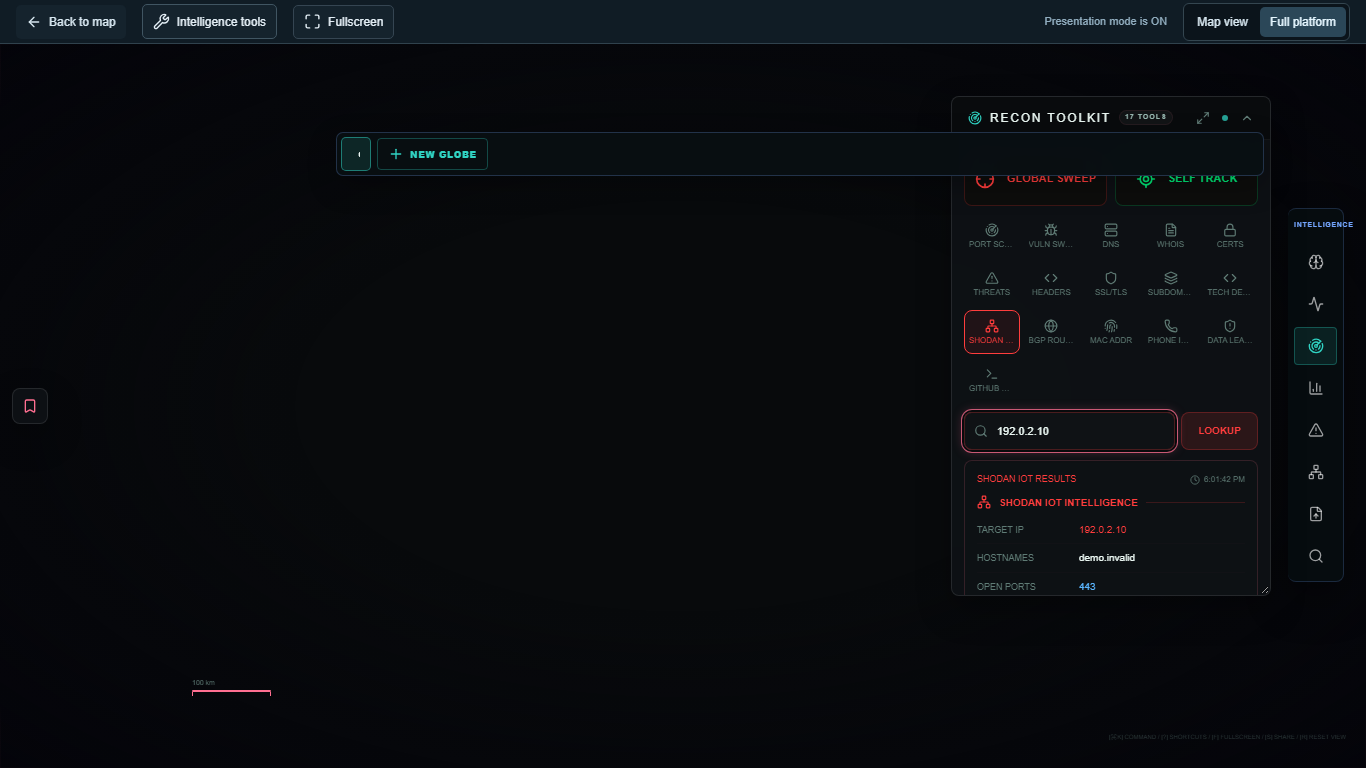
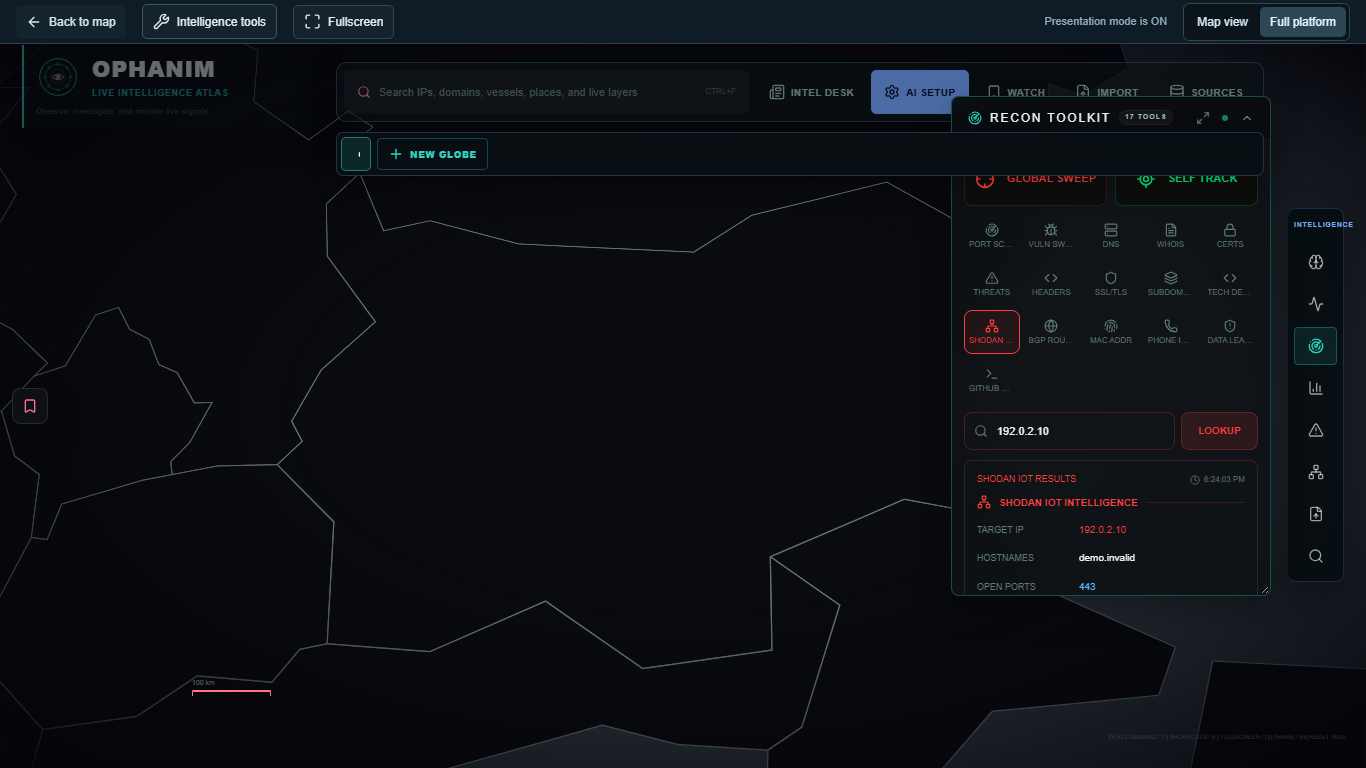
fix: fullscreen only the operational map and correct fire observation times

diff --git a/src/components/FullscreenButton.tsx b/src/components/FullscreenButton.tsx
@@ -1,32 +1,44 @@
 'use client';
 
-import { useEffect, useState } from 'react';
+import { useEffect, useState, type RefObject } from 'react';
 import { Maximize, Minimize } from 'lucide-react';
 import styles from './intelligence-tools.module.css';
 
-export default function FullscreenButton() {
+export default function FullscreenButton({ targetRef, label = 'Fullscreen' }: { targetRef?: RefObject<HTMLElement | null>; label?: string }) {
   const [fullscreen, setFullscreen] = useState(false);
   const [error, setError] = useState('');
   useEffect(() => {
-    const update = () => setFullscreen(Boolean(document.fullscreenElement));
+    const update = () => {
+      setFullscreen(document.fullscreenElement === (targetRef?.current ?? document.documentElement));
+      window.dispatchEvent(new Event('resize'));
+    };
+    const onEscape = (event: KeyboardEvent) => {
+      if (event.key === 'Escape' && document.fullscreenElement === (targetRef?.current ?? document.documentElement)) {
+        event.preventDefault();
+        void document.exitFullscreen().catch(() => setError('Could not leave fullscreen. Try the browser fullscreen control.'));
+      }
+    };
     update();
     document.addEventListener('fullscreenchange', update);
-    return () => document.removeEventListener('fullscreenchange', update);
-  }, []);
+    document.addEventListener('keydown', onEscape);
+    return () => { document.removeEventListener('fullscreenchange', update); document.removeEventListener('keydown', onEscape); };
+  }, [targetRef]);
   async function toggle() {
     setError('');
     try {
-      if (document.fullscreenElement) await document.exitFullscreen();
-      else if (document.documentElement.requestFullscreen) await document.documentElement.requestFullscreen();
+      const target = targetRef ? targetRef.current : document.documentElement;
+      if (!target) { setError('The map is not ready yet. Try again.'); return; }
+      if (document.fullscreenElement === target) await document.exitFullscreen();
+      else if (target.requestFullscreen) await target.requestFullscreen();
       else setError('Fullscreen is not supported by this browser.');
     } catch {
       setError('Fullscreen was blocked by the browser. Try its fullscreen menu.');
     }
   }
-  const label = fullscreen ? 'Exit fullscreen' : 'Fullscreen';
+  const buttonLabel = fullscreen ? 'Exit fullscreen' : label;
   return <div className={styles.fullscreen}>
-    <button type="button" title={label} aria-label={label} aria-pressed={fullscreen} onClick={() => void toggle()}>
-      {fullscreen ? <Minimize size={17} /> : <Maximize size={17} />}<span>{label}</span>
+    <button type="button" title={buttonLabel} aria-label={buttonLabel} aria-pressed={fullscreen} onClick={() => void toggle()}>
+      {fullscreen ? <Minimize size={17} /> : <Maximize size={17} />}<span>{buttonLabel}</span>
     </button>
     {error && <span className={styles.notice} role="status">{error}<button type="button" aria-label="Dismiss fullscreen message" onClick={() => setError('')}>OK</button></span>}
   </div>;

diff --git a/src/lib/presentation/feeds.ts b/src/lib/presentation/feeds.ts
@@ -34,6 +34,16 @@ export function publicTime(value: unknown): string | null {
   const time = new Date(value).getTime();
   return Number.isFinite(time) && time>0 ? new Date(time).toISOString() : null;
 }
+function fireObservationTime(item: Record<string, unknown>): string | null {
+  if (item.observedAt != null || item.timestamp != null) return publicTime(item.observedAt ?? item.timestamp);
+  if (typeof item.date !== 'string' || !/^\d{4}-\d{2}-\d{2}$/.test(item.date)) return null;
+  const clock = String(item.time ?? '').trim();
+  if (!clock) return publicTime(item.date);
+  if (!/^\d{1,4}$/.test(clock)) return null;
+  const hhmm = clock.padStart(4, '0');
+  if (Number(hhmm.slice(0, 2)) > 23 || Number(hhmm.slice(2)) > 59) return null;
+  return publicTime(`${item.date}T${hhmm.slice(0, 2)}:${hhmm.slice(2)}:00Z`);
+}
 export function publicUrl(value: unknown): string {
   const safe=safeSourceUrl(value);
   if (!safe) return '';
@@ -90,7 +100,7 @@ export function normalizePublicFeed(id: FeedId, raw: unknown, fetchedAt = new Da
     if (!Number.isFinite(lat) || !Number.isFinite(lng) || Math.abs(lat)>90 || Math.abs(lng)>180 || item.lat===null || item.lng===null) continue;
     // Legacy aviation/AIS adapters stamp `timestamp` at fetch/receipt time.
     // Do not relabel that timestamp as the source's position observation time.
-    const observedAt=definition.reference?null:publicTime(item.observedAt ?? (id==='flights'||id==='maritime'||id==='cameras' ? undefined : item.timestamp ?? item.time ?? item.date ?? item.updated_at));
+    const observedAt=definition.reference?null:id==='fires'?fireObservationTime(item):publicTime(item.observedAt ?? (id==='flights'||id==='maritime'||id==='cameras' ? undefined : item.timestamp ?? item.time ?? item.date ?? item.updated_at));
     const name=text(item.name ?? item.label ?? item.callsign ?? item.title ?? item.place ?? item.malware ?? item.id,`${definition.name} ${index+1}`);
     const properties:Record<string,unknown>={id:text(item.id ?? item.icao24 ?? item.mmsi,`${id}-${index}`),name,type:text(item.type,id),source:text(item.source,definition.source),sourceUrl:publicUrl(item.sourceUrl ?? item.external_url ?? item.url ?? item.reference ?? item.feed_url) || definition.url,observedAt,lat,lng,reference:result.reference};
     for (const key of ['mmsi','imo','registration','icao24','model','callsign','category','aircraft_category','heading','speed','speed_knots','alt','magnitude','depth','severity','country','city','destination','color','noradId','mission','brightness','ip','malware','status','threat_type','operational_category','vessel','classification','port']) {

diff --git a/src/app/globals.css b/src/app/globals.css
@@ -3588,6 +3588,7 @@ a.ops-stat:hover { border-color: var(--border-active); background: #1a2028; }
 
 /* Operational world monitor */
 .world-map-workspace {
+  container-type: inline-size;
   --wm-bg: #0c1211;
   --wm-panel: #111917;
   --wm-panel-raised: #17211e;
@@ -3937,6 +3938,11 @@ a.ops-stat:hover { border-color: var(--border-active); background: #1a2028; }
 .world-map-statusbar a { display: inline-flex; align-items: center; gap: 4px; color: #b7d8cc; text-decoration: none; }
 .world-map-statusbar a:hover { color: #fff; text-decoration: underline; text-underline-offset: 3px; }
 
+@container (max-width: 1100px) {
+  .world-map-toolbar { grid-template-columns: minmax(160px, 1fr) auto auto; gap: 10px; }
+  .world-map-metrics { display: none; }
+}
+
 @media (max-width: 1180px) {
   .world-map-toolbar { grid-template-columns: minmax(210px, 1fr) auto auto; }
   .world-map-metrics { display: none; }
@@ -3971,3 +3977,22 @@ a.ops-stat:hover { border-color: var(--border-active); background: #1a2028; }
   .world-map-canvas > div:not(.world-map-source-badge):not(.world-map-inspector) { min-height: 470px; height: 470px; }
   .world-map-statusbar > div:last-child span { display: none; }
 }
+
+.world-map-workspace:fullscreen {
+  width: 100vw;
+  height: 100dvh;
+  min-height: 0;
+  max-height: none;
+  border: 0;
+  border-radius: 0;
+  grid-template-rows: auto minmax(0, 1fr) auto;
+}
+.world-map-workspace:fullscreen .world-map-stage {
+  min-height: 0;
+  grid-template-columns: minmax(150px, 22%) minmax(0, 1fr);
+  overflow: hidden;
+}
+.world-map-workspace:fullscreen .world-map-layer-rail { height: auto; min-height: 0; }
+.world-map-workspace:fullscreen .world-map-mode { display: none; }
+.world-map-workspace:fullscreen .world-map-canvas,
+.world-map-workspace:fullscreen .world-map-canvas > div:not(.world-map-source-badge):not(.world-map-inspector) { min-height: 0; height: 100%; }

diff --git a/src/components/logistics/LogisticsMapWorkspace.tsx b/src/components/logistics/LogisticsMapWorkspace.tsx
@@ -17,7 +17,8 @@ import {
   ShieldCheck,
   X,
 } from "lucide-react";
-import { useCallback, useEffect, useMemo, useState } from "react";
+import { useCallback, useEffect, useMemo, useRef, useState } from "react";
+import FullscreenButton from "@/components/FullscreenButton";
 import type { ProviderMapLayer } from "@/lib/providers";
 import type { DisruptionRecord } from "@/lib/logistics/disruptions";
 import type { ShipmentRecord } from "@/lib/logistics/shipments";
@@ -231,6 +232,7 @@ const LOCAL_FEEDS = [
 ] as const;
 
 export default function LogisticsMapWorkspace() {
+  const mapWorkspaceRef = useRef<HTMLElement>(null);
   const query = useSearchParams();
   const [mode, setMode] = useState<MonitorMode>("worldmonitor");
   const [regionKey, setRegionKey] = useState("global");
@@ -397,7 +399,7 @@ export default function LogisticsMapWorkspace() {
     "Map detail";
 
   return (
-    <main className="world-map-workspace">
+    <main ref={mapWorkspaceRef} className="world-map-workspace" data-testid="operational-map-workspace">
       <header className="world-map-toolbar">
         <div className="world-map-title">
           <span aria-hidden="true">
@@ -439,6 +441,7 @@ export default function LogisticsMapWorkspace() {
         </div>
 
         <div className="world-map-actions">
+          {mode === "ophanim" && <FullscreenButton targetRef={mapWorkspaceRef} label="Fullscreen map" />}
           <label>
             <span className="sr-only">Map region</span>
             <MapPinned aria-hidden="true" size={14} />

diff --git a/src/lib/presentation/presentation.test.ts b/src/lib/presentation/presentation.test.ts
@@ -49,6 +49,17 @@ describe('public normalization never projects organization data',()=>{
     expect(publicTime('not-a-date')).toBeNull();expect(publicTime(0)).toBeNull();
     expect(publicTime('2026-10-16T00:00:00Z')).toBe('2026-10-16T00:00:00.000Z');
   });
+  it.each([
+    ['2026-10-15','2333','2026-10-15T23:33:00.000Z'],
+    ['2026-10-16','43','2026-10-16T00:43:00.000Z'],
+    ['2026-10-16','','2026-10-16T00:00:00.000Z'],
+    ['2026-10-16','2460',null],
+    ['', '2333',null],
+  ])('combines FIRMS date %s and UTC acquisition time %s without inventing a year', (date,time,expected)=>{
+    const feed=normalizePublicFeed('fires',{fires:[{lat:24,lng:54,date,time}]});
+    expect(feed.features[0].properties?.observedAt).toBe(expected);
+    expect(feed.observedAt).toBe(expected);
+  });
   it('rejects unusable positions instead of claiming global zero activity',()=>{
     expect(()=>normalizePublicFeed('flights',{commercial_flights:[{lat:999,lng:24}]})).toThrow();
     expect(()=>normalizePublicFeed('maritime',{ships:[]})).toThrow();

diff --git a/PRESENTATION_REPORT.md b/PRESENTATION_REPORT.md
@@ -14,6 +14,19 @@ is no new platform-admin role, allowlist or company-management workflow.
 
 ### Tool Discovery And Fullscreen Follow-Up
 
+The Full platform operational map now also has its own **Fullscreen map**
+control inside the **Ophanim live** toolbar. It requests fullscreen on only the
+map workspace element, excluding the enclosing sidebar, app header and
+presentation bar. Layer controls, region selection and exit remain inside the
+fullscreen workspace. A resize notification keeps the MapLibre canvas fitted.
+Browser coverage checks 1920x1080 and 1366x768, geographic pixels, button exit
+and Escape. The normal whole-page fullscreen controls are still separate.
+
+Live-source verification exposed a FIRMS acquisition-time parsing bug: a value
+such as `2333` was treated as a year. Fire observations now combine the source
+date with its UTC HHMM time. Five regression cases cover padded times, date-only
+volcano records and malformed/missing dates or times.
+
 - Added a labelled fullscreen control in Map view and the Full platform presenter
   bar, including exit state and a dismissible browser-rejection message.
 - Added an Intelligence tools menu in both headers. It opens the existing Atlas
@@ -198,12 +211,13 @@ Final checks on 16 October 2026:
 | Check | Result |
 | --- | --- |
 | TypeScript / production build | PASS |
-| Unit and database tests | 267 passed, one pre-existing opt-in live test skipped; 59 files |
+| Unit and database tests | 272 passed, one pre-existing opt-in live test skipped; 59 files |
 | Focused ESLint on presentation code | PASS, zero errors or warnings |
 | Shared legacy map lint baseline | Unchanged: 96 existing errors, 10 existing warnings; unrelated cleanup excluded |
 | Shared Atlas / Recon lint baseline | Unchanged: Atlas 57 errors / 16 warnings; Recon 27 errors / 7 warnings |
 | Local migration chain / actual RLS checks | PASS |
 | Browser integration scenarios | 20 PASS; zero uncaught errors on map/tool navigation and zero console errors on map/switch path; at least 14 enabled populated layers |
+| Map-only fullscreen follow-up | 6 focused browser checks PASS on the new build, including scoped fullscreen at 1920x1080 and 1366x768, rendered geography, button/Escape exit and retained layers; `tools-results.json` |
 | Geographic starter + panel shell under 2 seconds | PASS: 0.407 / 0.650 / 1.438 s |
 | Fully interactive WebGL under 2 seconds | NOT MET: approximately 7.1-8.7 seconds in latest local run |
 
@@ -219,6 +233,16 @@ ON/OFF propagation was measured at 37 ms in the final integration run. The tool
 follow-up also has a repeatable focused run: `node tools/presentation/check.mjs
 --tools-only`, recorded in `presentation-evidence/tools-results.json`. Its Shodan
 image uses a reserved test IP and mocked response, not a live customer lookup.
+
+The later real-provider probe (`live-feeds.json`, 14:25 UTC) received responses
+for all 18 public feeds with no synthetic fixtures or replay. In that probe,
+fire observation time was 10:41 UTC on 16 October after the HHMM parsing fix,
+weather 14:10 UTC, news 14:02 UTC and space weather 10:21 UTC. Aviation/AIS
+adapters did not supply reliable observation timestamps, so same-day position
+freshness cannot be certified from retrieval time alone. Camera directories
+warm progressively after startup (four markers on this cold-start probe, versus
+thousands in the prior warm probe). No claim is made that every camera stream
+plays or that every reference record is live.
 
 Screenshots (all use labelled synthetic replay, no real customer records):
 

diff --git a/PRESENTATION.md b/PRESENTATION.md
@@ -67,6 +67,12 @@ The **Fullscreen** button beside the tools menu expands the entire application;
 press it again or Escape to leave fullscreen. Small screens retain the expand
 icon. A browser that blocks fullscreen shows a dismissible message.
 
+For **only the embedded map**, open Full platform > Operational map > Ophanim
+live, then use **Fullscreen map** beside the region selector. This expands just
+the map workspace, including its layer rail. The outer workspace sidebar, app
+header and presentation bar are not included. **Exit fullscreen** or Escape
+returns to the surrounding Full platform page without resetting the map.
+
 Opening a tool enters Full platform through the same optional switch PIN. It
 does not sign in a visitor or unlock private APIs. The selected tool is retained
 after PIN entry, and Back to map / Full platform remembers its URL in this
@@ -96,6 +102,23 @@ redirects, quick-switch controls and the shortcut disappear. The admin settings
 page remains available to turn it on again.
 
 ## Replay And Plan B
+
+### Real Data Versus Live Data
+
+These are different properties. The public preview uses real provider responses,
+not the synthetic browser-test fixtures. Aircraft, vessels, earthquakes, fire
+detections, weather/disasters, cyber indicators, news and space weather refresh
+from their providers, subject to each provider's delays, caching and coverage.
+A successful fetch is not proof every observation is current or from today.
+Several legacy position adapters do not supply a reliable observation timestamp;
+the UI must not replace that missing time with the time of retrieval.
+
+Ports, chokepoints, cables, infrastructure, broadcaster locations, conflict-region
+anchors and vessel-associated sanctions ports are **reference locations**. They
+are not live port congestion, current frontlines or sanctioned-vessel positions.
+Satellite positions are **calculated** from orbital elements, not telemetry.
+Camera-directory markers do not guarantee each image/video stream is online.
+Saved snapshots are shown as **Replay** with the recording time.
 
 - **Auto:** live data first; a failed source uses its own last saved snapshot.
 - **On:** recorded feeds only. This does not make requests to live providers.
